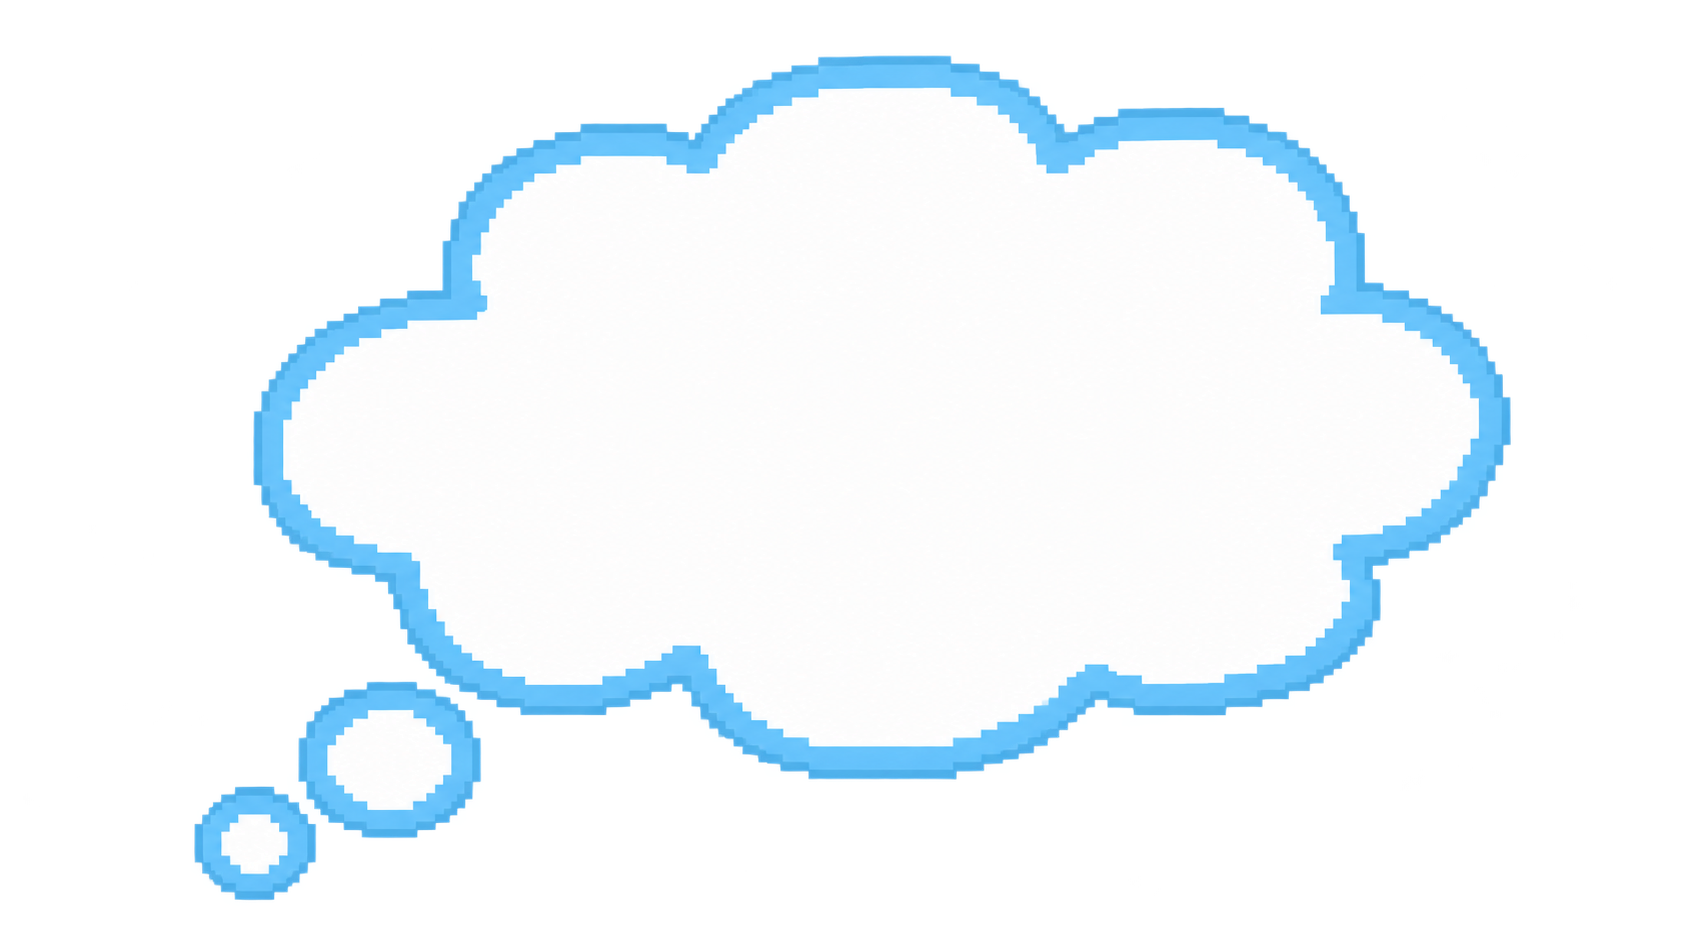
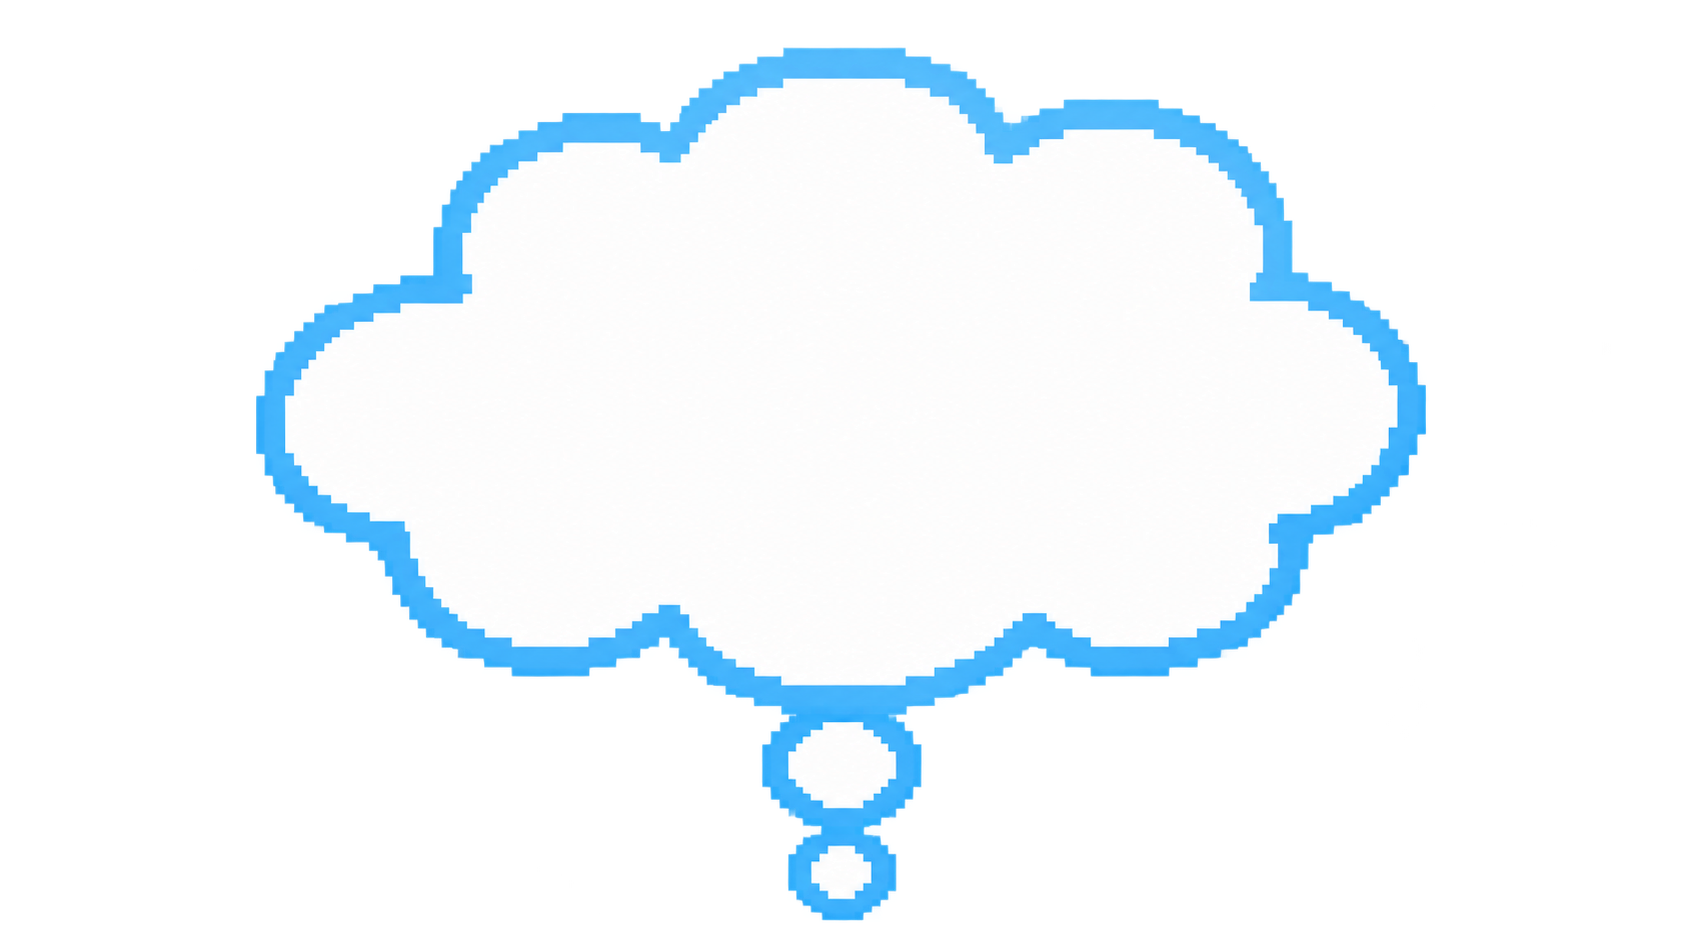
fix: centre cloud speech bubble tail above pets

Changed region(s): [[0.0928, 0.031, 0.8971, 0.9915]]

diff --git a/src/animals/SpeechBubble.ts b/src/animals/SpeechBubble.ts
@@ -1,5 +1,6 @@
 import { Container, Graphics, Sprite, Text, type Texture, type DestroyOptions } from 'pixi.js';
 import { GAME_FONT } from '../ui/GameFont';
+import { SKY_CLOUD } from './SpeechSkins';
 
 // Conservative font widths keep layout deterministic before Pixi creates a canvas.
 const glyphWidth = (char: string): number => char === ' ' ? 5 : char.charCodeAt(0) > 255 ? 18 : 10;
@@ -45,6 +46,8 @@ export class SpeechBubble extends Container {
   private bubbleWidth = 40;
   get halfWidth(){return this.bubbleWidth/2;}
   halfHeight = 18;
+  /** Distance below the body, used to align its tip like the free bubble's tail. */
+  get tailHeight(): number { return this.skin ? this.cloud.height * (1 - this.cloud.anchor.y) - this.halfHeight : 8; }
   get text(): string { return this.source; }
   get displayText(): string { return this.caption.text; }
 
@@ -52,7 +55,7 @@ export class SpeechBubble extends Container {
     super();
     this.caption.anchor.set(0.5);
     this.reaction.anchor.set(0.5);
-    this.cloud.anchor.set(704 / 1350, 370 / 865);
+    this.cloud.anchor.set(SKY_CLOUD.body.centerX / SKY_CLOUD.frame[2], SKY_CLOUD.body.centerY / SKY_CLOUD.frame[3]);
     this.cloud.visible = false;
     this.addChild(this.plate, this.tail, this.cloud, this.caption, this.reaction);
     this.visible = false;
@@ -85,10 +88,11 @@ export class SpeechBubble extends Container {
       if (this.skin) {
         // Keep copy within the white centre, and preserve the cloud's compact proportions.
         const contentHeight = lines.length * 25 + header;
-        this.bubbleWidth = Math.max(180, ...lines.map(line => lineWidth(line) + 100), (contentHeight + 62) * 1.73);
-        this.halfHeight = this.bubbleWidth / 1.73 / 2;
-        this.cloud.width = this.bubbleWidth * 1350 / 1265;
-        this.cloud.height = this.cloud.width * 865 / 1350;
+        const aspect = SKY_CLOUD.body.width / SKY_CLOUD.body.height;
+        this.bubbleWidth = Math.max(180, ...lines.map(line => lineWidth(line) + 100), (contentHeight + 62) * aspect);
+        this.halfHeight = this.bubbleWidth / aspect / 2;
+        this.cloud.width = this.bubbleWidth * SKY_CLOUD.frame[2] / SKY_CLOUD.body.width;
+        this.cloud.height = this.cloud.width * SKY_CLOUD.frame[3] / SKY_CLOUD.frame[2];
         this.reaction.y = -contentHeight / 2 + 12;
       }
       this.plate.clear().roundRect(-this.bubbleWidth / 2, -this.halfHeight, this.bubbleWidth, this.halfHeight * 2, 10)
@@ -111,7 +115,7 @@ export class SpeechBubble extends Container {
   }
 
   fitToViewport(animalX: number, animalY: number, width: number, height: number): void {
-    const halfWidth = this.bubbleWidth / 2 + 12, halfHeight = this.halfHeight + (this.skin ? this.cloud.height * .16 + 12 : 12);
+    const halfWidth = this.bubbleWidth / 2 + 12, halfHeight = this.halfHeight + (this.skin ? this.cloud.height * .25 + 12 : 12);
     const targetX = Math.max(halfWidth, Math.min(width - halfWidth, animalX + this.x));
     this.x = targetX - animalX;
     this.y = Math.max(halfHeight - animalY, Math.min(height - halfHeight - animalY, this.y));

diff --git a/src/game/scenes/ShopScene.ts b/src/game/scenes/ShopScene.ts
@@ -266,7 +266,7 @@ export class ShopScene extends Scene {
     const speech = this.tab === 'Style' && this.category === 'Etc' && speechSkinItem('Etc', this.selected)
       ? { message: t('speechSkinPreview'), remaining: 1 } : undefined;
     this.animation.update(this.reaction > 0 ? 'EMOTE' : 'IDLE', this.elapsed, 1, 0, 0, seconds, undefined, undefined, speech);
-    if (speech) { this.animation.welcomeMark.scale.set(.65); this.animation.welcomeMark.position.set(0,-180); }
+    if (speech) { this.animation.welcomeMark.scale.set(.55); this.animation.welcomeMark.position.set(0,-200); }
     if(this.tab!=='Style')this.animation.welcomeMark.visible=false;
     if(this.petPreview.visible)this.petAnimation?.update(this.reaction>0?'EMOTE':'IDLE',this.elapsed,1,0,0,seconds);
   }

diff --git a/src/animals/AnimalAnimationController.ts b/src/animals/AnimalAnimationController.ts
@@ -112,6 +112,6 @@ export class AnimalAnimationController {
     this.welcomeMark.setSkin(wardrobe && speechSkinItem('Etc', wardrobe.outfit.Etc) ? wardrobe.speechCloud : undefined);
     this.welcomeMark.present(message, seconds, state === 'GREET', 1.1, speech?.remaining, speech?.reaction);
     const headTop = head ? (head.y - head.width * 0.8) * nativeScale : -125;
-    this.welcomeMark.position.set(0, this.sprite.y + headTop - this.welcomeMark.halfHeight - 18 - (state === 'GREET' ? Math.sin(elapsed * 3) * 3 : 0));
+    this.welcomeMark.position.set(0, this.sprite.y + headTop - this.welcomeMark.halfHeight - Math.max(0, this.welcomeMark.tailHeight - 8) - 18 - (state === 'GREET' ? Math.sin(elapsed * 3) * 3 : 0));
   }
 }

diff --git a/src/game/scenes/CharacterScene.ts b/src/game/scenes/CharacterScene.ts
@@ -173,7 +173,7 @@ export class CharacterScene extends Scene {
     const speech = this.tab === 'Etc' && speechSkinItem('Etc', this.outfit.Etc)
       ? { message: t('speechSkinPreview'), remaining: 1 } : undefined;
     this.animation.update(emote ? 'EMOTE' : 'IDLE', this.elapsed, 1, 0, 0, seconds, undefined, undefined, speech);
-    if (speech) { this.animation.welcomeMark.scale.set(.65); this.animation.welcomeMark.position.set(0,-180); }
+    if (speech) { this.animation.welcomeMark.scale.set(.55); this.animation.welcomeMark.position.set(0,-200); }
   }
   override destroy(options?: DestroyOptions): void {
     this.unsubscribe?.(); this.localeOff(); this.abort.abort(); this.panel.remove(); super.destroy(options);

diff --git a/src/animals/SpeechSkins.ts b/src/animals/SpeechSkins.ts
@@ -5,7 +5,9 @@ export const SKY_CLOUD = {
   category: 'Etc', index: 2, name: 'skyCloudBubble',
   file: 'speech-cloud-sky.png', price: 150,
   // Runtime crop only: retain the approved PNG unchanged, including its thought dots.
-  frame: [180, 48, 1350, 865],
+  frame: [248, 40, 1186, 888],
+  // Body centre excludes the two thought dots below its central vertical axis.
+  body: { centerX: 594, centerY: 340, width: 1170, height: 666 },
 } as const;
 export const speechSkinItem = (category: OutfitTab, index: number) =>
   category === SKY_CLOUD.category && index === SKY_CLOUD.index ? SKY_CLOUD : undefined;

diff --git a/MyAIAgent/Speech_Bubble_Skins.prompt.md b/MyAIAgent/Speech_Bubble_Skins.prompt.md
@@ -1,5 +1,11 @@
 # 말풍선 스킨 시안
 
+## v7 중앙 꼬리 수정 (2026-10-28, 최신)
+- 사용자 요청: 작은 구름을 삭제하지 않고 큰 구름 아래 중앙으로 이동. 내장 image_gen 편집으로 `Resources/Cloud_Speech_Bubble_Sky_Blue_Prototype_v7.png`를 생성했고 런타임 `public/assets/items/speech-cloud-sky.png`에 동일 파일을 사용한다. v6 원본은 보존한다.
+- 두 작은 구름과 큰 구름의 중심축을 맞추고, SpeechSkins의 body/frame 좌표를 공유한다. 게임에서는 꼬리 길이를 반영해 기본 말풍선과 같은 머리 위 간격을 유지한다. 상점/캐릭터 미리보기는 0.55배·y=-200으로 두어 작은 구름이 머리에 겹치지 않게 한다. 관련 16개 테스트·빌드·실제 Chrome 비교 및 640×360 검증 통과.
+- 서버 SQL 027 사용자 적용 완료. 가격/구매/장착/저장 구조 변경과 추가 SQL은 없다.
+- 편집 프롬프트: Use case: precise-object-edit. Edit target: the supplied PawHaven sky-blue pixel-art thought bubble. Move the two small detached white/blue thought-cloud dots from the lower LEFT to directly underneath the horizontal CENTRE of the large cloud body, vertically stacked. The larger dot sits just below the body's bottom centre, followed by the smaller dot beneath it. The smallest bottom dot aligns with the main cloud's central vertical axis, pointing down to the character's head. Remove their old lower-left positions completely (transparent there). Preserve the naturally irregular cloud body, pure white centre, sky-blue edge, fine flat 2D pixel-art style and palette. No text, shadows, decorations, extra clouds, triangular tail or background. Preserve true alpha; fit the complete cloud and both centred dots without clipping.
+
 - 2026-10-28: 사용자가 구름 모양의 하늘색·분홍색을 제안했고 하늘색 시안부터 제작하도록 요청했다.
 - 2026-10-28: 하늘색 v6 사용자 승인. 상점 Style → Etc에서 150코인 구매·미리보기, Character → Etc 장착, 로비 대화·공원 채팅에 적용한다. 기본 말풍선은 무료이며 Etc의 없음 선택으로 복원한다. 분홍색은 아직 제작/판매하지 않는다.
 - 생성: 내장 image_gen 도구. 신규 이미지, 투명 배경. 원본 PNG는 재가공하지 않고 Resources에 복사한다.

diff --git a/MyAIAgent/UI_STYLE.md b/MyAIAgent/UI_STYLE.md
@@ -1,5 +1,7 @@
 # Cozy UI 1차 (2026-10-17)
 
+구름 말풍선 꼬리 수정(2026-10-28, v6보다 우선): 작은 구름 두 개를 삭제하지 않고 아래 중앙에 세로 배치한 v7을 사용한다. 큰 구름·글자·작은 꼬리의 중심축을 공유하고, 게임 배치 시 꼬리 길이를 반영해 머리 위 간격을 유지한다. 새 SQL은 없다.
+
 구름 말풍선(2026-10-28): 승인된 하늘색 v6의 자연스러운 비대칭 윤곽·흰 중앙·방울 꼬리를 유지한다. Style → Etc 150코인, Character → Etc 장착, 로비와 공원 대사에 같은 SpeechBubble 컴포넌트를 쓴다. Jua·중앙 여백·220px 줄바꿈을 유지하고 미리보기 안내는 캐릭터 아래에 둔다. 기본 무료 말풍선과 분홍색 미구현 상태를 유지한다. 상세: [Speech_Bubble_Skins.prompt.md](Speech_Bubble_Skins.prompt.md).
 
 상자 코인 피드백(2026-10-28): 기존 금색 코인 Sprite로 0.18초 상승+0.32초 캐릭터 방향 흡수/페이드를 사용하고 새 이미지/UI를 만들지 않는다. 기존 effects 설정을 따르고 획득음은 master/sfx/mute를 따르며 첫 재생도 저장된 볼륨을 적용한다. 일반 코인도 같은 짧은 두 음을 재사용한다. 상세: [BOX_COINS.md](BOX_COINS.md).
